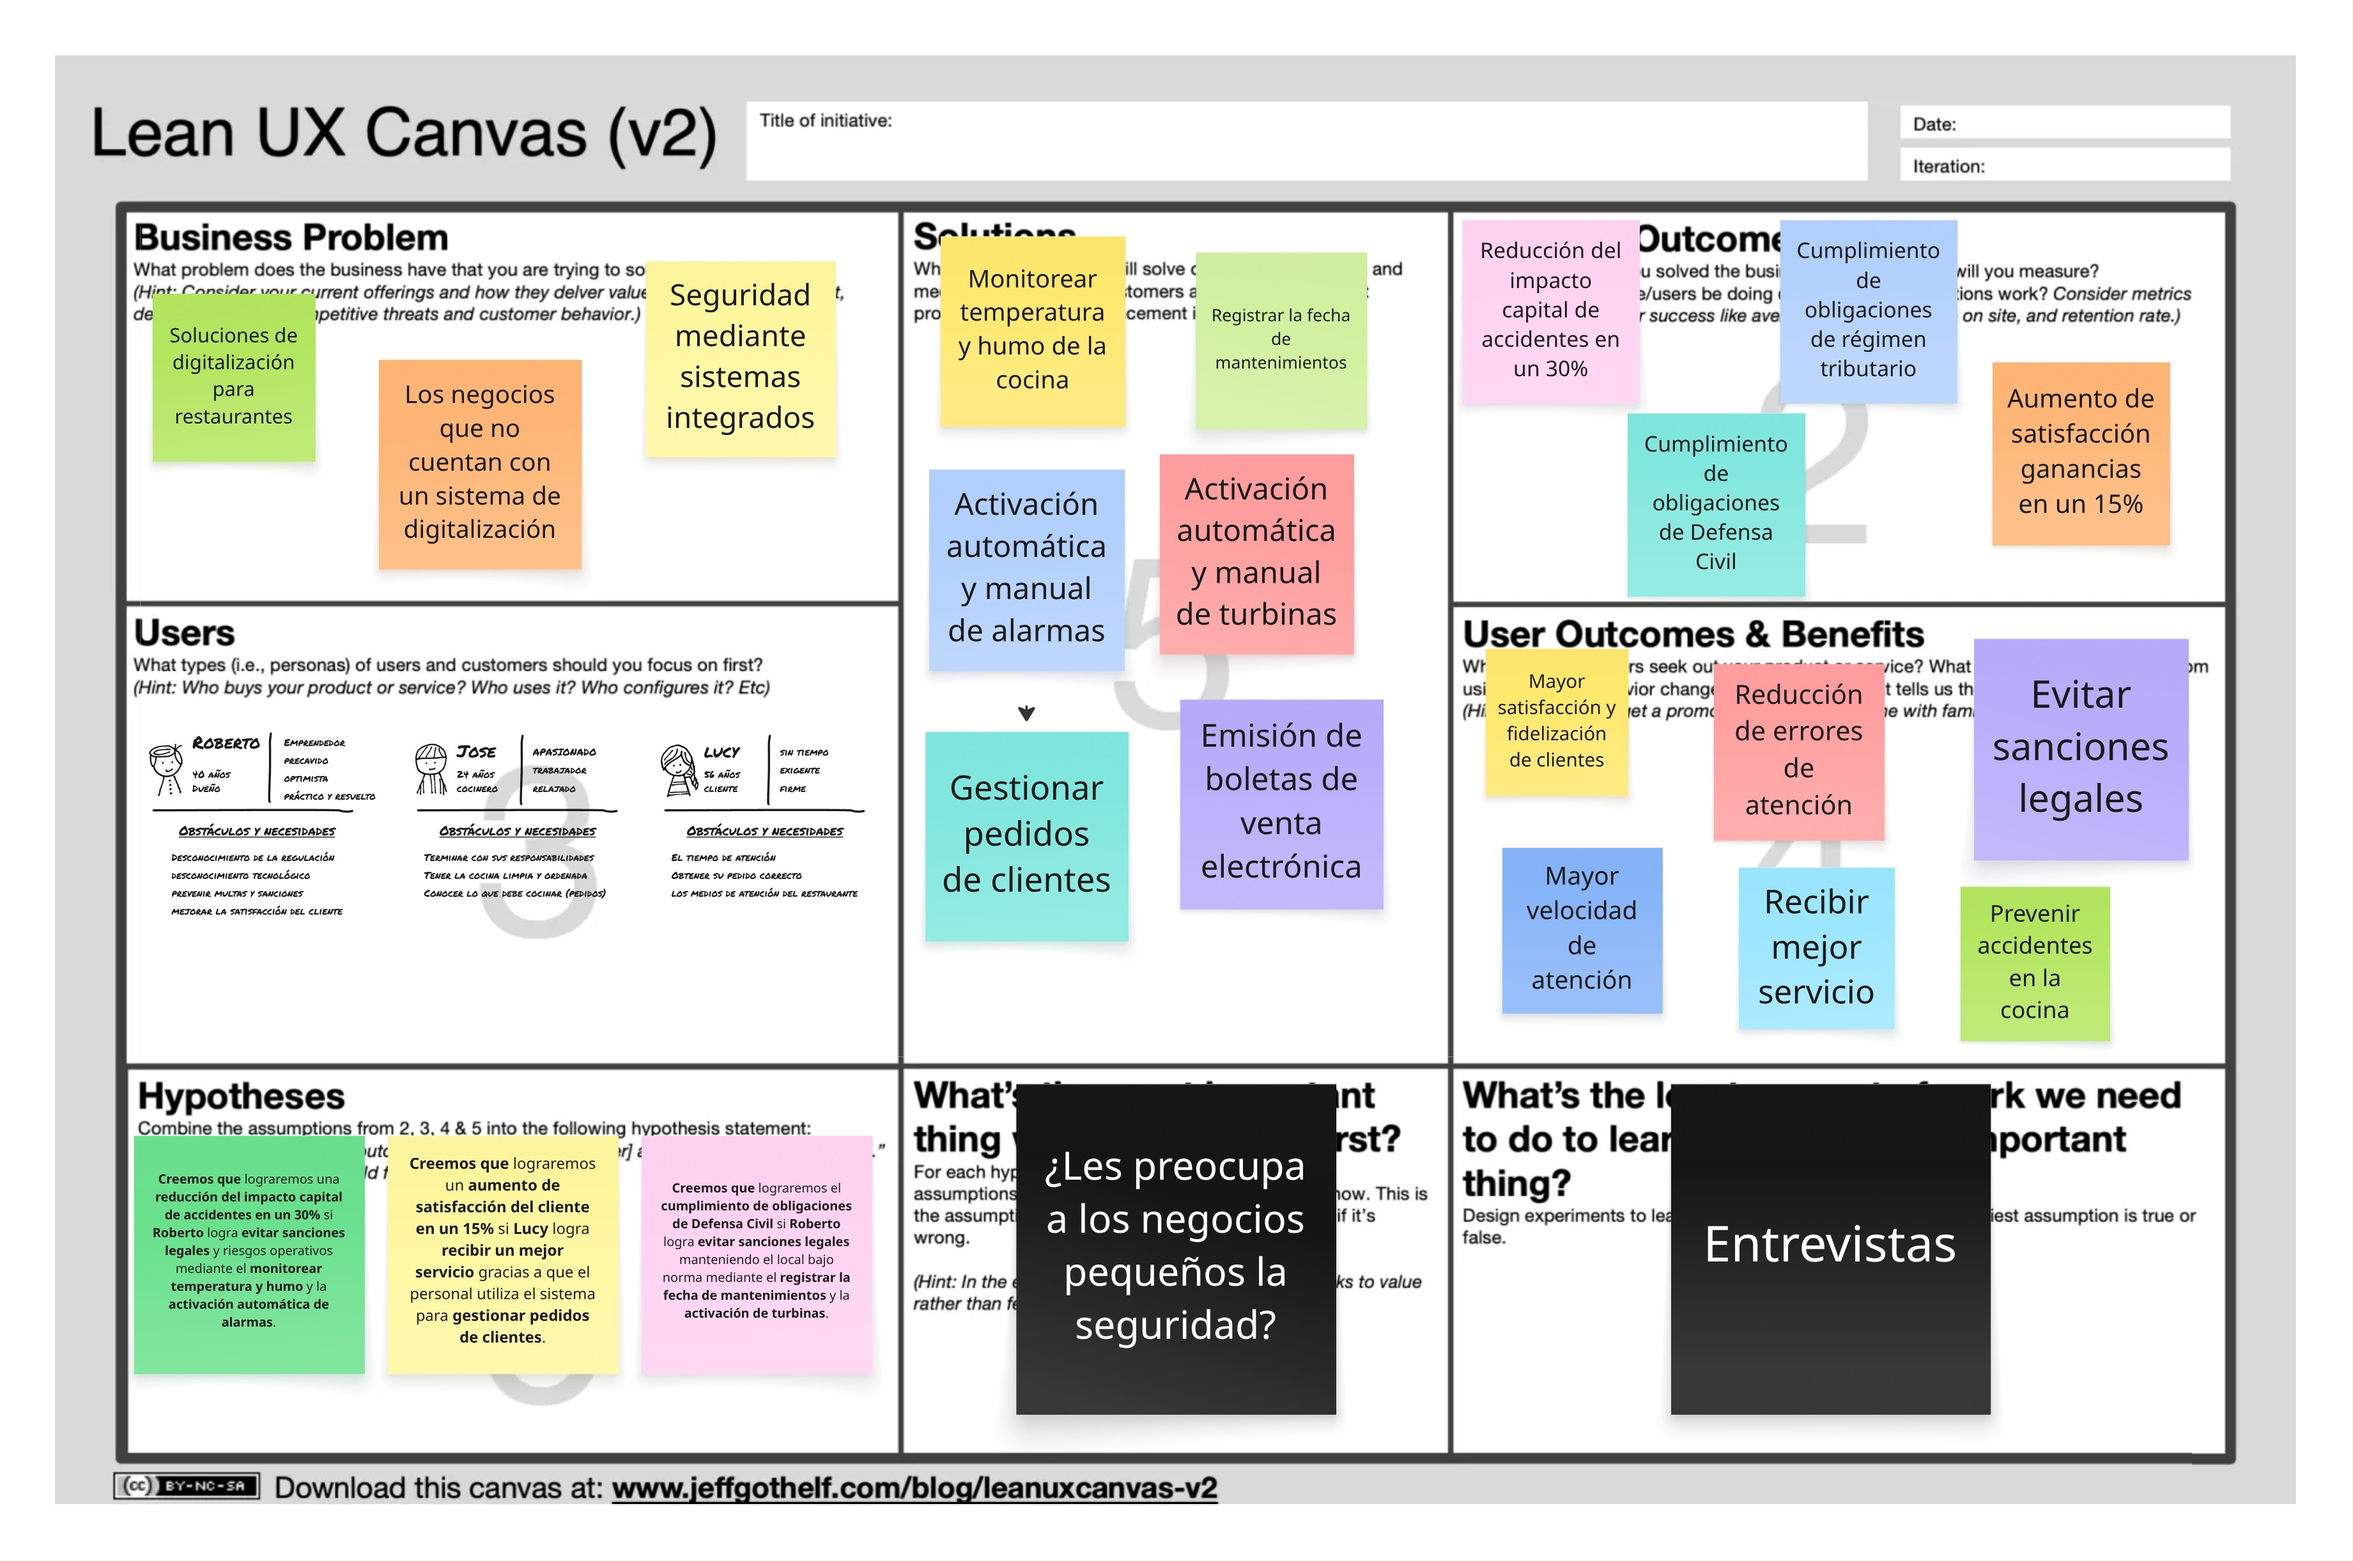
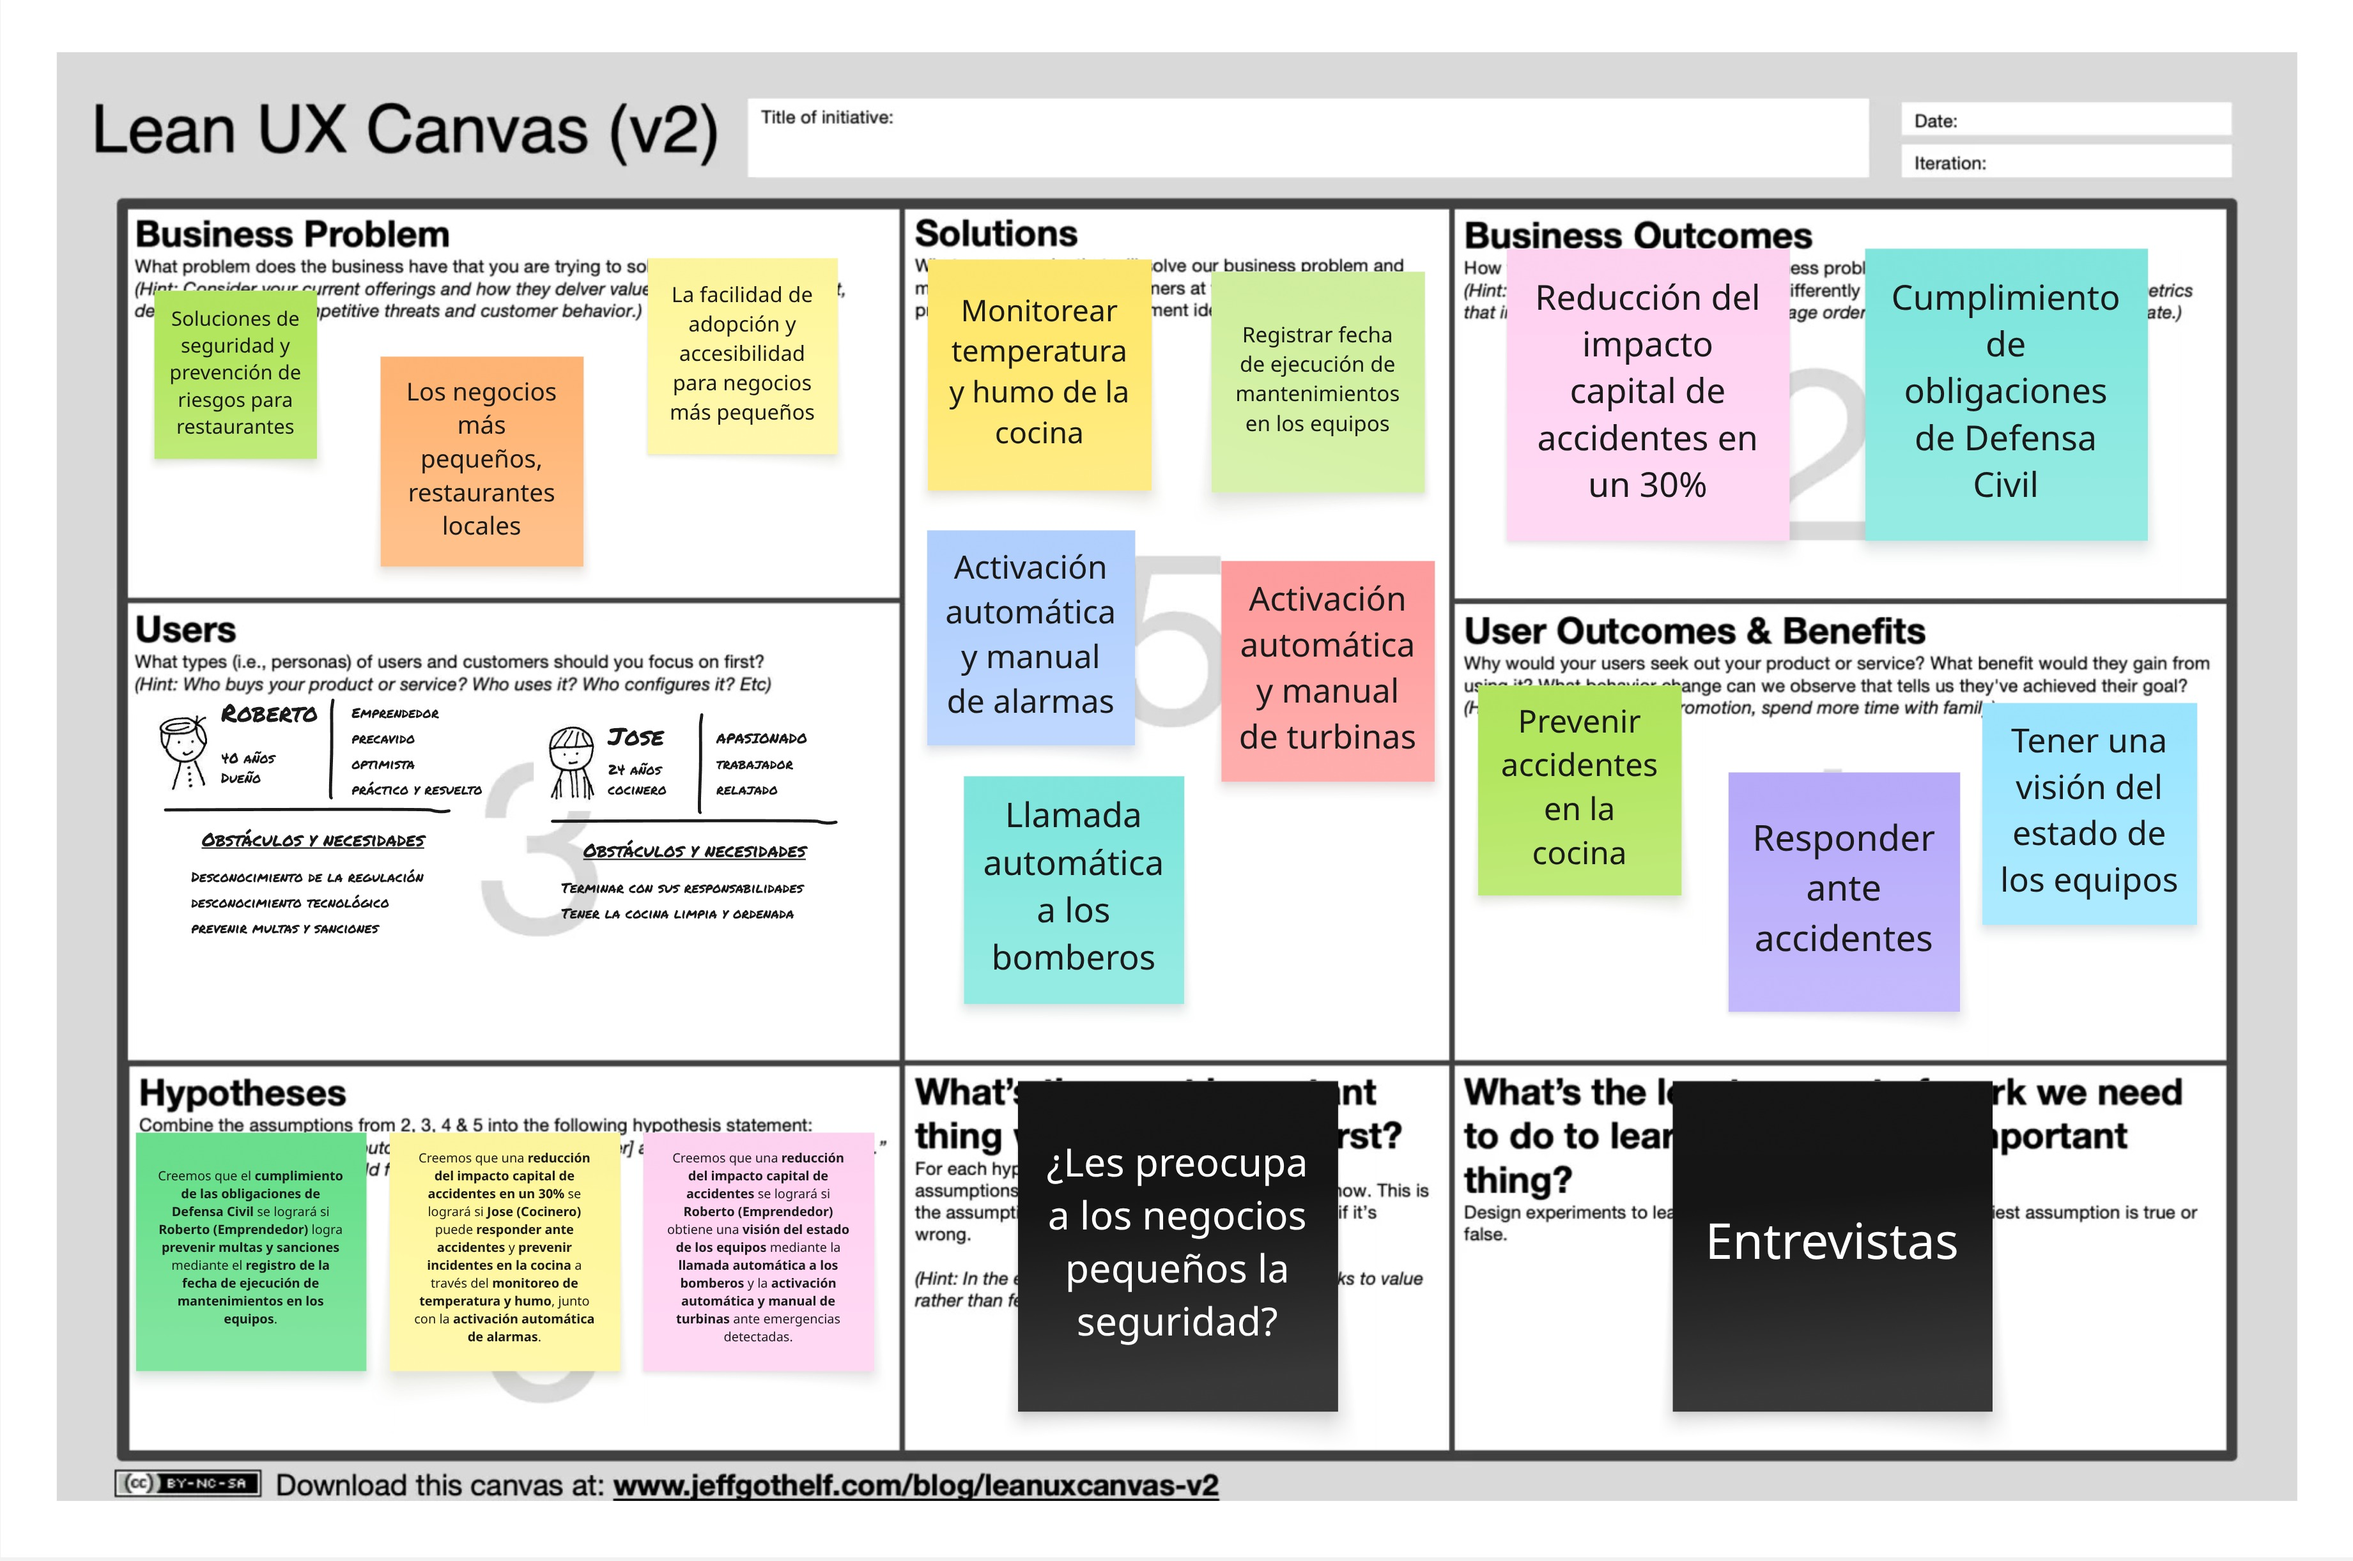
refactor: change the project's proporsal

Changed region(s): [[0.0312, 0.0622, 0.9682, 0.9018], [0.0312, 0.9018, 0.9682, 0.964]]

diff --git a/sections/capitulo_1/solution/antecedentes.md b/sections/capitulo_1/solution/antecedentes.md
@@ -2,9 +2,7 @@
 
 En la actualidad, el Perú enfrenta desafíos estructurales persistentes. Según el Programa de las Naciones Unidas para el Desarrollo (2025), el país registró un Índice de Desarrollo Humano de 0,794, ubicándose en el puesto 79 de 193 países, aún por debajo del umbral de “alto desarrollo humano”. Asimismo, el Banco Mundial (2025) clasifica al Perú como una economía de ingreso mediano-alto; una categoría que, pese al crecimiento sostenido, evidencia brechas significativas respecto a las naciones desarrolladas. Esta condición intermedia exige estrategias que aceleren la inclusión social y económica.
 
-Dentro del amplio abanico de estrategias y enfoques posibles que podrían favorecer este propósito, la transformación digital adquiere un protagonismo destacado. Este concepto no se reduce a la simple adopción de redes sociales o al uso de dispositivos digitales, sino que implica un cambio estructural en la forma de gestionar y crear valor en las organizaciones. Como señalan Bueno y Ferreira (2017, como se cita en Morante, 2020), la transformación digital es:
-
-> “…algo mucho más profundo que estar en las redes sociales, utilizar dispositivos digitales o tener un canal de venta online. Se trata de llevar a cabo una modificación sustancial de toda la cadena de valor del negocio, en todas las áreas y afectando de forma global a todas las personas: clientes, empleados y stakeholders. Se trata en suma de tener digitalizados todos los procesos” (p. 9).
+Dentro del espectro de estrategias necesarias para consolidar esta estabilidad, la gestión de riesgos operativos y la seguridad preventiva a través de controles internos emerge como una estrategia destacada. De acuerdo con Hardvard Business School (2023), los controles internos son políticas y procesos que permiten a los gerentes limitar las oportunidades en que los empleados exponen sus negocios a riesgos. 
 
 **ENFOQUE DE LA STARTUP**
 

diff --git a/sections/bibliografia.md b/sections/bibliografia.md
@@ -1,7 +1,7 @@
+- Gibson, K. (2023, 24 de octubre). What is risk management & why is it important? Harvard Business School Online. https://online.hbs.edu/blog/post/risk-management
 - Gothelf, J., & Seiden, J. (2021). Lean UX: Designing Great Products with Agile Teams (3rd ed.). O'Reilly Media.
 - Instituto Nacional de Estadística e Informática. (2026). Perú: Comportamiento de los indicadores del mercado laboral a nivel nacional y en 27 ciudades: Enero-Diciembre 2025 | Cuarto trimestre 2025 (Informe Técnico). https://cdn.www.gob.pe/uploads/document/file/9450232/7739601-peru-comportamiento-de-los-indicadores-del-mercado-laboral-a-nivel-nacional-y-27-ciudades-cuarto-trimestre-2025.pdf
 - Ministerio de la Producción. (2025). Análisis sectorial: Desempeño e importancia del sector restaurantes y afines en la economía nacional (2019-2024). Oficina General de Evaluación de Impacto y Estudios Económicos.
-- Morante, L. (2020). Transformación digital: conceptos claves y casos de éxito en el Perú. [Tesis de licenciatura, Pontificia Universidad Católica del Perú]. Repositorio institucional PUCP. https://tesis.pucp.edu.pe/items/705e57e8-20c3-4941-a43e-1c1260501811
 - Movistar Empresas. (2025). 65% de pymes planea integrar Inteligencia Artificial para fortalecer sus operaciones. https://www.movistar.com.pe/65-de-pymes-planea-integrar-inteligencia-artificial-para-fortalecer-sus-operaciones
 - Programa de las Naciones Unidas para el Desarrollo. (2025). Perú: Datos sobre desarrollo humano. Human Development Report Data Center. https://hdr.undp.org/data-center/specific-country-data#/countries/PER
 - World Bank. (2025). World Development Indicators: Interactive data portal. World Bank Open Data. https://datos.bancomundial.org/

diff --git a/sections/capitulo_1/solution/lean_ux_process/problem_statements.md b/sections/capitulo_1/solution/lean_ux_process/problem_statements.md
@@ -1,9 +1,9 @@
-Al estado actual de ***las soluciones de digitalización para restaurantes*** se han centrado principalmente en el proporcionar herramientas simples que habilitan a los negocios de restaurantes el cumplimiento tributario y la coordinación entre las diversas áreas (como caja, cocina, delivery).
+Al estado actual de ***soluciones de seguridad y prevención de riesgos para restaurantes*** se han centrado principalmente en el mercado de las grandes cadenas de restaurantes.
 
-Lo que las soluciones actuales no logran abordar es ***la importancia de la seguridad mediante sistemas que permitan integrar la capacidad de respuesta al flujo de operaciones***.
+Lo que las soluciones actuales no logran abordar es ***la facilidad de adopción y accesibilidad para negocios más pequeños***.
 
-Nuestro producto va a superar esta brecha a través de ***combinar todo en un solo producto***.
+Nuestro producto va a superar esta brecha a través de ***ser una propuesta orientada al mercado de los negocios locales***.
 
-Nuestro foco inicial va a centrar en ***los negocios que no cuentan con un sistema de digitalización***.
+Nuestro foco inicial va a centrar en ***los negocios más pequeños, restaurantes locales***.
 
-Sabremos que hemos tenido éxito al observar ***adopción y retención del servicio a largo plazo, en reemplazo a otros sistemas sin seguridad***
+Sabremos que hemos tenido éxito al observar ***adopción y retención del servicio a largo plazo***

diff --git a/sections/capitulo_1/solution/lean_ux_process/hypothesis_statements.md b/sections/capitulo_1/solution/lean_ux_process/hypothesis_statements.md
@@ -1,5 +1,5 @@
-- Creemos que lograremos una reducción del impacto capital de accidentes en un 30% si Roberto logra evitar sanciones legales y riesgos operativos mediante el monitorear temperatura y humo y la activación automática de alarmas.
+- Creemos que el cumplimiento de las obligaciones de Defensa Civil se logrará si Roberto (Emprendedor) logra prevenir multas y sanciones mediante el registro de la fecha de ejecución de mantenimientos en los equipos.
 
-- Creemos que lograremos un aumento de satisfacción del cliente en un 15% si Lucy logra recibir un mejor servicio gracias a que el personal utiliza el sistema para gestionar pedidos de clientes.
+- Creemos que una reducción del impacto capital de accidentes en un 30% se logrará si Jose (Cocinero) puede responder ante accidentes y prevenir incidentes en la cocina a través del monitoreo de temperatura y humo, junto con la activación automática de alarmas.
 
-- Creemos que lograremos el cumplimiento de obligaciones de Defensa Civil si Roberto logra evitar sanciones legales manteniendo el local bajo norma mediante el registrar la fecha de mantenimientos y la activación de turbinas.
+- Creemos que una reducción del impacto capital de accidentes se logrará si Roberto (Emprendedor) obtiene una visión del estado de los equipos mediante la llamada automática a los bomberos y la activación automática y manual de turbinas ante emergencias detectadas.

diff --git a/sections/capitulo_1/solution/lean_ux_process/assumptions.md b/sections/capitulo_1/solution/lean_ux_process/assumptions.md
@@ -1,29 +1,23 @@
 **BUSINESS OUTCOMES**
 
 - Reducción del impacto capital de accidentes en un 30%
-- Cumplimiento de obligaciones de régimen tributario
 - Cumplimiento de obligaciones de Defensa Civil
-- Aumento de satisfacción ganancias en un 15%
 
 **USERS**
 
 - Roberto (Dueño de restaurante)
 - José (Cocinero / empleado)
-- Lucy (Cliente)
 
 **USER OUTCOMES**
 
-- Mayor satisfacción y fidelización de clientes
-- Mayor velocidad de atención
-- Reducción de errores de atención
-- Recibir mejor servicio
-- Evitar sanciones legales
 - Prevenir accidentes en la cocina
+- Responder ante accidentes
+- Tener una visión del estado de los equipos
 
 **FEATURES**
 
 - Monitorear temperatura y humo de la cocina
-- Registrar la fecha de mantenimientos
+- Registrar fecha de ejecución de mantenimientos en los equipos
 - Activación automática y manual de alarmas
 - Activación automática y manual de turbinas
-- Gestionar pedidos de clientes
+- Llamada automática a los bomberos
